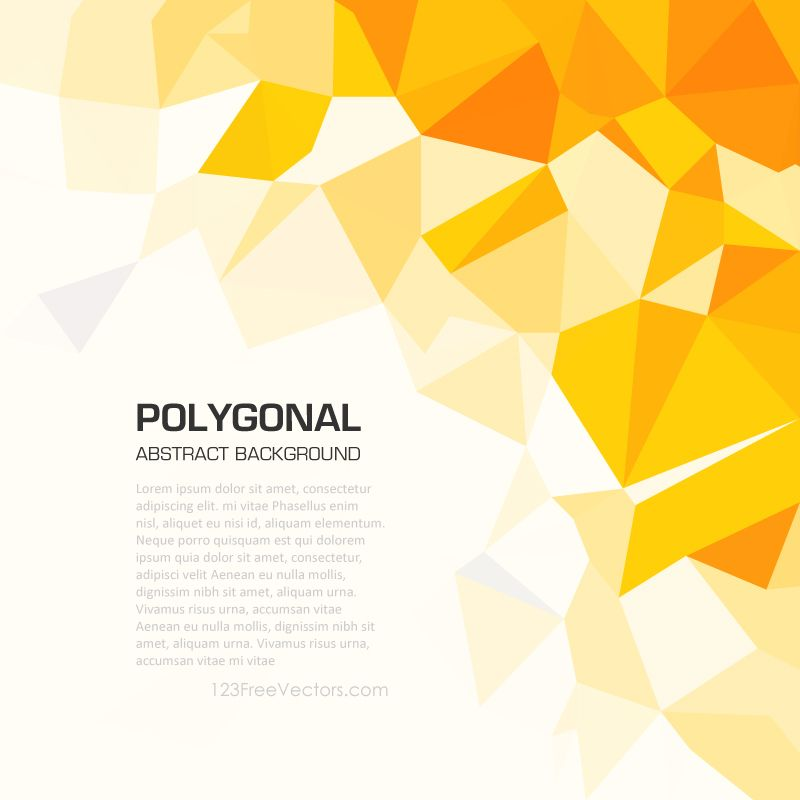
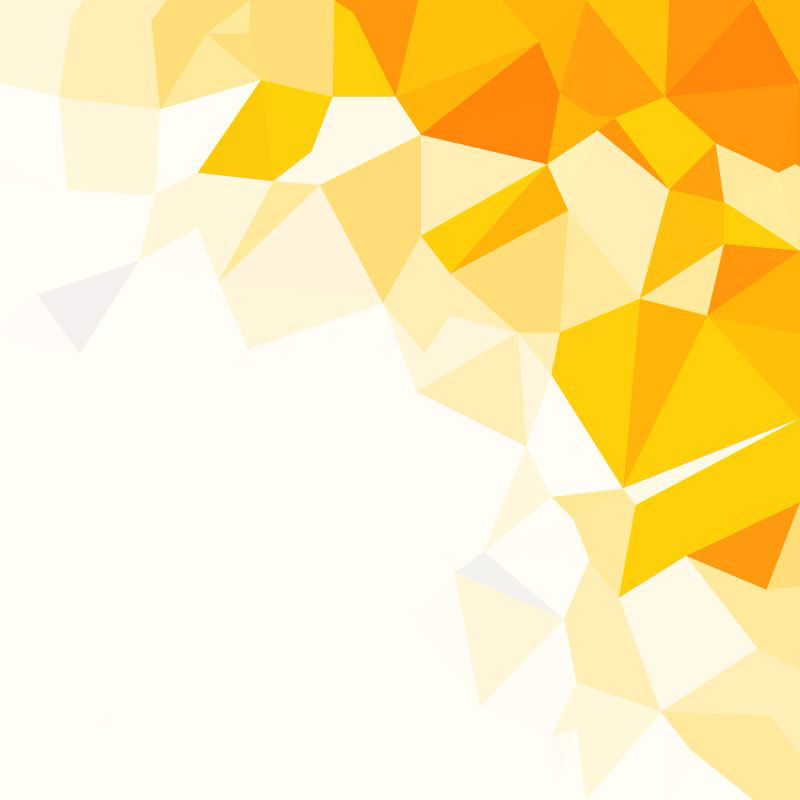
changed background

diff --git a/css/style.css b/css/style.css
@@ -10,8 +10,7 @@ body {
     background-color: #FFFDF6;
     background-image: url(../img/1.jpg);
     background-repeat: no-repeat;
-    background-size: contain;
-    background-position: right;
+    background-size: cover;
     background-attachment: fixed;
 }
 
